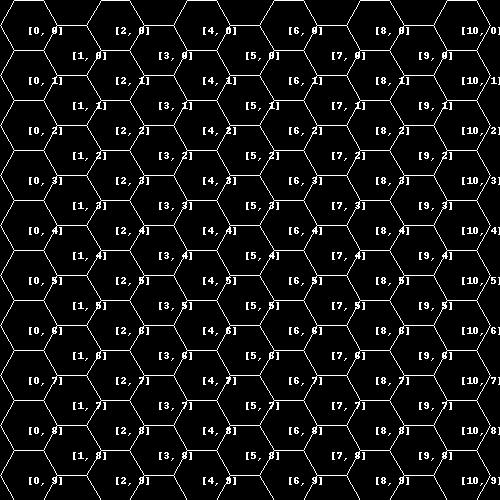
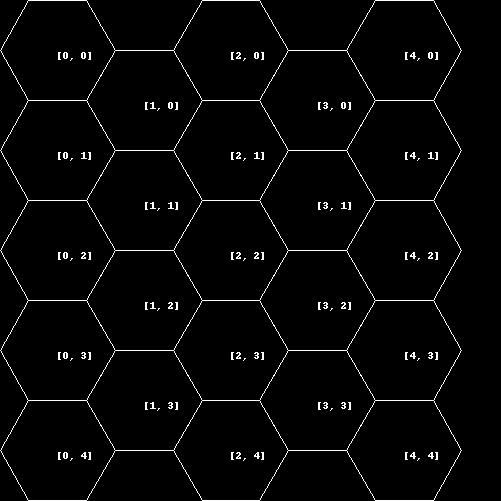
Improves documentation & produces board the size of standard Catan

diff --git a/board/HexagonGrid.py b/board/HexagonGrid.py
@@ -26,6 +26,71 @@ class Hexagon:
 
 
 class HexagonGrid:
+	r"""
+	When measuring from the center of a hexagon to a vertice as depicted in Figure 1, the following formula can be
+	 applied:
+		w = 2s, h = (√3)s
+	Figure 1.
+	  |<---- 2s ----->|  
+	      _________      _
+	     /         \     ↑
+	    /           \    |
+	   /      ___S___\  (√3)s
+	   \             /   |
+	    \           /    |
+	     \_________/     ↓
+	                     ‾
+		
+	Therefore, we determine the ratio of 
+		w : h => 2s : (√3)s
+
+	Applying this for measuring from the center of a hexagon to a side as depicted in Figure 2, the following is
+	 derived:
+		    y = .5 h     ==     2y = h
+		=>  y = .5 (√3)s
+		=> 2y = (√3)s
+		=> 2y/√3 = s
+	Using w = 2s,
+		   w = 2(2y/√3)
+		=> w = 4y/√3
+
+	Figure 2.
+	  |<--- 4y/√3 --->|  —
+	      _________      ↑
+	     /    |    \     |
+	    /     y     \    |
+	   /      |      \  2y
+	   \             /   |
+	    \           /    |
+	     \_________/     ↓
+	                     ‾
+
+	Additional important distances in the grid shown below are as follow:
+		   horizontal distance = (3/4)w
+		   vertical distance   = (1/2)h
+		=> horizontal distance = (3/4)(4y/√3)
+		   vertical distance   = (1/2)(2y)
+		=> horizontal distance = (3y/√3) => (√3)y
+		   vertical distance   = y
+
+	Figure 3.
+	      _________
+	     /         \
+	    /           \
+	   /      .      \_____     _
+	   \             /          ↑
+	    \           /           y
+	     \_________/       .    ↓
+              |<-- (√3)y ->|    ‾
+
+
+	Finally, first hexagon will start in the top left corner with its top side against the top of the area and the left
+	 corner against the left side. Numbering starts at [0, 0]. The first hexagon of the odd rows will be shifted down
+	 by `y` units and to the right by `(√3)y` units.
+
+	Links:
+	- https://www.redblobgames.com/grids/hexagons/
+	"""
 	SQUAREROOT_3 = math.sqrt(3)
 
 	def __init__(self, width: int, height: int, hexagon_size: int):
@@ -61,7 +126,7 @@ class HexagonGrid:
 		next_position_y: float = current_position_y + y_offset
 		next_boundary_y: float = next_position_y + self.hexagon_size
 
-		if(next_boundary_y <= self.height):
+		if(next_boundary_y <= self.height-1):
 			next_position_x: float = current_position_x
 			self._current_index = [self._current_index[0], self._current_index[1] + 1]
 			self._current_position = [next_position_x, next_position_y]
@@ -70,7 +135,7 @@ class HexagonGrid:
 			x_offset: float = self.SQUAREROOT_3 * self.hexagon_size
 			next_position_x: float = current_position_x + x_offset
 			next_boundary_x: float = next_position_x + (x_offset / 2)
-			if(next_boundary_x > self.width):
+			if(next_boundary_x > self.width-1):
 				raise StopIteration
 
 			next_position_y: float = self.hexagon_size if(self._current_index[0] & 0b1) else self.hexagon_size * 2
@@ -78,5 +143,3 @@ class HexagonGrid:
 			self._current_position = [next_position_x, next_position_y]
 
 		self.hexagons[-1].append(Hexagon(list(self._current_index), list(self._current_position), self.hexagon_size))
-
-		print(self.hexagons)

diff --git a/board/Test.py b/board/Test.py
@@ -7,12 +7,15 @@ from PIL import Image, ImageDraw
 from HexagonGrid import HexagonGrid
 
 
-hexagon_grid = HexagonGrid(500, 500, 25)
-image = Image.new("1", [500, 500])
+hexagon_grid = HexagonGrid(501, 501, 50)
+# FROM: https://pillow.readthedocs.io/en/stable/reference/Image.html#PIL.Image.new
+#  AND: https://pillow.readthedocs.io/en/stable/handbook/concepts.html#concept-modes
+image = Image.new("RGB", [501, 501])
 draw = ImageDraw.Draw(image)
 for hexagon_row in hexagon_grid.hexagons:
 	for hexagon in hexagon_row:
 		# FROM: https://pillow.readthedocs.io/en/stable/reference/ImageDraw.html#PIL.ImageDraw.ImageDraw.regular_polygon
-		draw.regular_polygon((hexagon.position[0], hexagon.position[1], 2 * hexagon.size / math.sqrt(3)), 6, outline=(255,))
-		draw.text((hexagon.position[0], hexagon.position[1]), f"[{hexagon.x}, {hexagon.y}]", fill=(255,))
+		draw.regular_polygon((hexagon.position[0], hexagon.position[1], 2 * hexagon.size / math.sqrt(3)), 6, outline=(255, 255, 255))
+		# FROM: https://pillow.readthedocs.io/en/stable/reference/ImageDraw.html#PIL.ImageDraw.ImageDraw.text
+		draw.text((hexagon.position[0], hexagon.position[1]), f"[{hexagon.x}, {hexagon.y}]", fill=(255, 255, 255))
 image.save("Hello world.jpg")

diff --git a/board/Tile.py b/board/Tile.py
@@ -27,9 +27,9 @@ Tile = TypeVar("Tile")
 
 class Tile:
 	class Borders(Enum):
-		"""
-		Edges relative to hexagon
-		 Edges
+		r"""
+		Borders relative to hexagon
+		 Borders
 		  4  3  2
 		   \ | / 
 		     ⬣
@@ -45,7 +45,7 @@ class Tile:
 
 
 	class Corners(Enum):
-		"""
+		r"""
 		Corners relative to hexagon
 		   4    3
 		    \  / 

diff --git a/board/Corner.py b/board/Corner.py
@@ -27,8 +27,8 @@ Tile = TypeVar("Tile")
 
 class Corner:
 	class Borders(Enum):
-		"""
-		Edges relative to corner
+		r"""
+		Borders relative to corner
 		 TOP
 		   \__ SIDE
 		   /
@@ -45,7 +45,7 @@ class Corner:
 
 
 	class Tiles(Enum):
-		"""
+		r"""
 		Tiles relative to corners
 		          ______
 		         /      \

diff --git a/board/Border.py b/board/Border.py
@@ -27,7 +27,7 @@ Tile = TypeVar("Tile")
 
 class Border:
 	class Corners(Enum):
-		"""
+		r"""
 		Corners relative to edges
 		 Edges
 		  4  3  2
@@ -56,7 +56,7 @@ class Border:
 
 
 	class Tiles(Enum):
-		"""
+		r"""
 		Tile relative to edge
 		 Edges
 		  4  3  2
